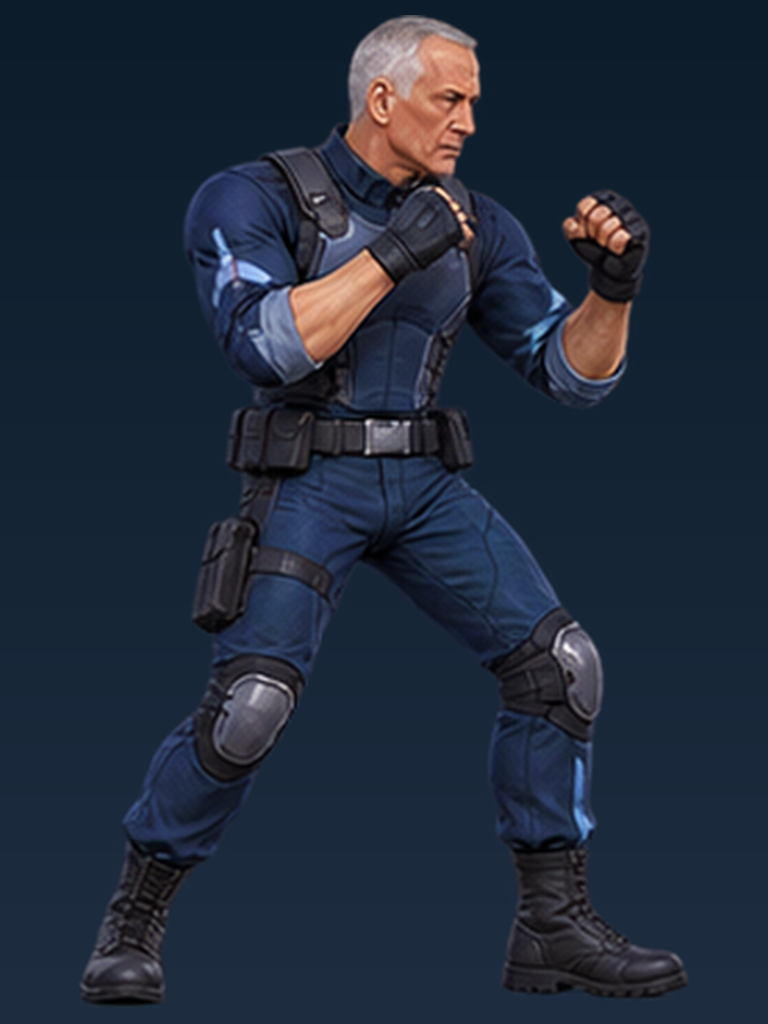
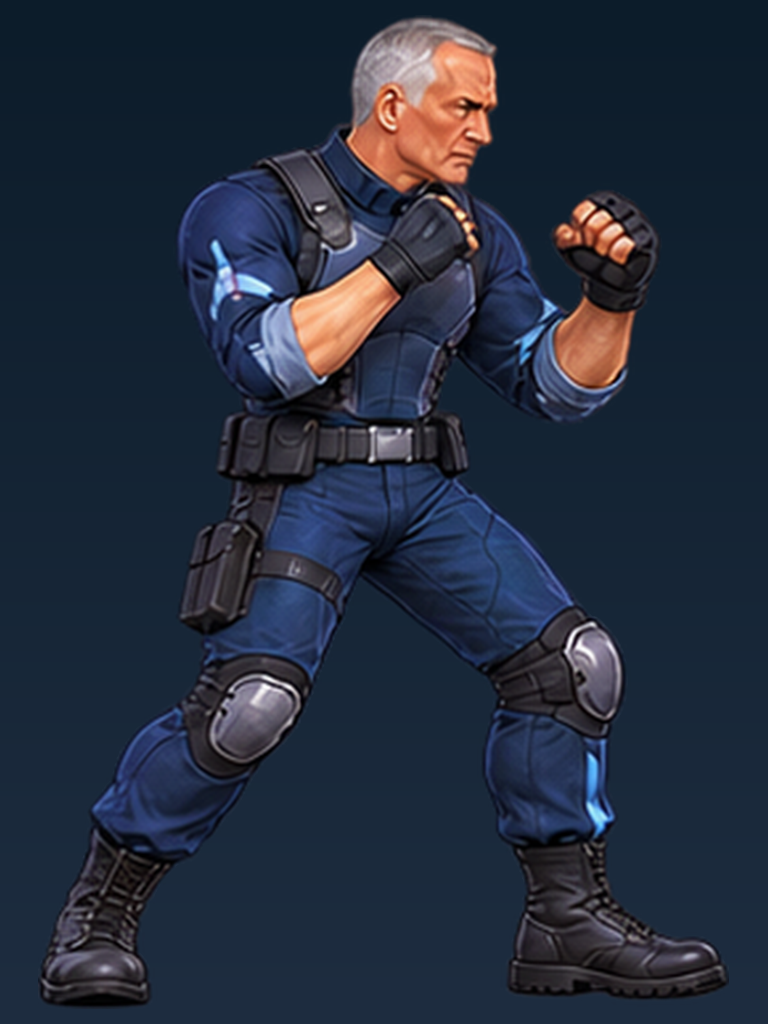
feat: produce gantz and joint list fighter art

diff --git a/tests/test_slice_sprite_sheets.py b/tests/test_slice_sprite_sheets.py
@@ -1,4 +1,5 @@
 import unittest
+import json
 from pathlib import Path
 
 from PIL import Image, ImageDraw
@@ -15,6 +16,29 @@ def make_cell(size: tuple[int, int], figure_box: tuple[int, int, int, int]) -> I
 
 
 class SpriteSheetGeometryTests(unittest.TestCase):
+    def test_first_production_trio_has_valid_source_contract(self) -> None:
+        root = Path(__file__).resolve().parents[1]
+        manifest_path = root / "data" / "fighter_art_manifest.json"
+        self.assertTrue(manifest_path.exists(), "production fighter art manifest is missing")
+        manifest = json.loads(manifest_path.read_text(encoding="utf-8"))
+        expected = {
+            "yair_lapid": ("prime_time_rushdown", 1, "production_revision_pending"),
+            "benny_gantz": ("centre_control_heavy", 2, "production"),
+            "joint_list": ("dual_stance_ensemble", 2, "production"),
+        }
+        for fighter_id, (archetype, version, status) in expected.items():
+            entry = manifest["fighters"].get(fighter_id, {})
+            self.assertEqual(entry.get("version"), version)
+            self.assertEqual(entry.get("status"), status)
+            self.assertEqual(entry.get("archetype"), archetype)
+            self.assertEqual(len(entry.get("pose_order", [])), 12)
+            sheet_path = root / entry["source_sheet"]
+            sheet = Image.open(sheet_path).convert("RGBA")
+            self.assertEqual(sheet.width * 3, sheet.height * 4, f"{fighter_id} sheet is not 4x3")
+            alpha = np.asarray(sheet.getchannel("A"))
+            self.assertGreater(int((alpha == 0).sum()), 0, f"{fighter_id} sheet has no transparency")
+            self.assertEqual(len(extract_pose_cells(sheet)), 12)
+
     def test_jab_and_cross_have_materially_different_silhouettes(self) -> None:
         """A second punch must read as a new pose, not a near-duplicate jab."""
         root = Path(__file__).resolve().parents[1] / "assets" / "characters" / "sprites"

diff --git a/docs/superpowers/plans/2026-10-14-first-production-fighter-trio.md b/docs/superpowers/plans/2026-10-14-first-production-fighter-trio.md
@@ -1,0 +1,105 @@
+# First Production Fighter Trio Implementation Plan
+
+> **For agentic workers:** REQUIRED SUB-SKILL: Use superpowers:subagent-driven-development (recommended) or superpowers:executing-plans to implement this plan task-by-task. Steps use checkbox (`- [ ]`) syntax for tracking.
+
+**Goal:** Replace the playable 12-pose source sheets for Yair Lapid, Benny Gantz and Joint List with production art that carries their approved fast, heavy and dual-stance identities without changing combat rules.
+
+**Architecture:** Generate one transparent 4×3 source sheet per fighter from the current card, current sheet and approved concept direction. Run the existing connected-component slicer to rebuild normalized frames and cards, then validate the asset contract and inspect Sprite Lab and live fights at desktop and landscape-phone sizes.
+
+**Tech Stack:** Built-in ImageGen, PNG/RGBA, Pillow/SciPy slicer, Godot 4.7.
+
+**Spec:** `docs/superpowers/specs/2026-10-14-character-visual-direction.md`
+
+## Global Constraints
+
+- Preserve the exact 12-pose order in `docs/character-pipeline.md` and a transparent 4×3 source sheet.
+- Every pose faces screen-right and keeps the full body, feet and accessories inside its cell.
+- Use the existing fighter identity and outfit; never paste a photographic face or substitute a generic body.
+- Do not change damage, hit windows, reach, combo ownership, fighter height or match rules.
+- Punch poses cannot contain the kick pose. Effects and motion trails remain runtime presentation rather than baked sheet elements.
+- Preserve `FighterVisual` grounding, world-floor shadows, 1280×720 layout and landscape-phone controls.
+
+## Review Focus
+
+- Extended gloves, boots and the Joint List dual silhouette must remain attached to the correct pose after slicing.
+- All 12 cells must contain exactly the intended fighter with no labels, floor, shadow or neighbouring-pose fragments.
+- Lapid's kick and Gantz's heavy poses must retain the same visible body scale as their punches.
+- Joint List must read as one dual-figure roster slot at gameplay size without exceeding the render budget.
+- Cards regenerated from idle frames must still fit selection and HUD crops.
+
+---
+
+### Task 1: Contract regression and production metadata
+
+**Files:**
+- Create: `data/fighter_art_manifest.json`
+- Modify: `tests/test_slice_sprite_sheets.py`
+
+**Interfaces:**
+- Produces: production status and approved archetype for `yair_lapid`, `benny_gantz` and `joint_list`.
+- Consumes: `extract_pose_cells()` and the 4×3 asset contract.
+
+- [x] Add a failing test that requires all three production IDs in the manifest and validates sheet RGBA mode, 4:3 dimensions, transparent pixels, twelve non-empty owned cells and the fixed pose order.
+- [x] Run the focused Python test and confirm it fails because the manifest does not exist.
+- [x] Add the manifest with the approved archetype and source-sheet path for each fighter; version/status tracks completed production honestly.
+- [x] Run the focused Python test.
+
+### Task 2: Lapid production sheet
+
+**Files:**
+- Modify: `assets/characters/sprite-sheets/new-roster/yair-lapid-sheet.png`
+- Regenerate: `assets/characters/sprites/yair_lapid-0.png` through `yair_lapid-11.png`
+- Regenerate: `assets/characters/yair-lapid-card.png`
+
+**Interfaces:**
+- Consumes: current Lapid card/sheet and FAST concept direction.
+- Produces: one complete transparent 4×3 sheet and twelve normalized frames.
+
+- [ ] Generate and inspect the sheet with narrow boxing silhouettes, fast straight punches and a distinct signature kick.
+- [ ] Run `python tools/slice_sprite_sheets.py` and the focused scale/silhouette tests.
+- [ ] Inspect all twelve normalized frames and commit the Lapid asset slice.
+
+### Task 3: Gantz production sheet
+
+**Files:**
+- Modify: `assets/characters/sprite-sheets/new-roster/benny-gantz-sheet.png`
+- Regenerate: `assets/characters/sprites/benny_gantz-0.png` through `benny_gantz-11.png`
+- Regenerate: `assets/characters/benny-gantz-card.png`
+
+**Interfaces:**
+- Consumes: current Gantz card/sheet and HEAVY concept direction.
+- Produces: one complete transparent 4×3 sheet and twelve normalized frames.
+
+- [x] Generate and inspect the sheet with a broad planted silhouette, compressed wind-up and large full-body recoil.
+- [x] Run the slicer and focused silhouette/grounding tests.
+- [x] Inspect all twelve normalized frames and the in-game desktop/phone result.
+
+### Task 4: Joint List production sheet
+
+**Files:**
+- Modify: `assets/characters/sprite-sheets/new-roster/joint-list-sheet.png`
+- Regenerate: `assets/characters/sprites/joint_list-0.png` through `joint_list-11.png`
+- Regenerate: `assets/characters/joint-list-card.png`
+
+**Interfaces:**
+- Consumes: current Joint List card/sheet and DUAL-STANCE ENSEMBLE concept direction.
+- Produces: one complete transparent 4×3 sheet and twelve normalized frames.
+
+- [x] Generate and inspect the sheet with a coherent two-figure silhouette, brown close-range lead and teal long-range lead alternating by pose.
+- [x] Run the slicer, connected-component and render-budget tests.
+- [x] Inspect all twelve normalized frames and the in-game desktop/phone result.
+
+### Task 5: Runtime, responsive and full-suite verification
+
+**Files:**
+- Modify: `docs/SHARED_GAME_ROADMAP.md`
+- Modify: `docs/superpowers/plans/2026-10-09-presentation-campaign-legal-analytics.md`
+
+**Interfaces:**
+- Consumes: all three production asset slices.
+- Produces: verified milestone and shared handoff state.
+
+- [ ] Run the focused geometry, attack identity, render-budget, combo and fairness tests.
+- [ ] Run all Godot tests and `python -m unittest discover -s tests -p 'test_*.py'`.
+- [ ] Inspect Sprite Lab and live-fight captures at 1280×720 and 844×390, including both facing directions and touch controls.
+- [ ] Record the evidence in the shared roadmap and handoff, then commit and push the completed milestone when authorized.

diff --git a/docs/SHARED_GAME_ROADMAP.md b/docs/SHARED_GAME_ROADMAP.md
@@ -30,7 +30,7 @@ The current one-on-one, best-of-three rules remain. The roadmap does not current
 | Combat data foundation | Complete | `docs/superpowers/plans/2026-10-14-combat-data-foundation.md` | `data/combat.json`, combat loader/tests |
 | Distinct attack presentation | First slice complete | `docs/superpowers/plans/2026-10-14-distinct-attacks-and-interactive-stages.md` | animation profiles, `SpriteMotion`, visual tests |
 | Reactive stages | First slice complete | `docs/superpowers/plans/2026-10-14-reactive-stages.md` | `scripts/stages/`, stage tests, narrow event wiring |
-| Character visual redesign | Full 13-fighter concept bible complete; production sprites pending approval | `docs/superpowers/specs/2026-10-14-character-visual-direction.md` | character images, sprite sheets, derived sprite frames, visual QA |
+| Character visual redesign | Production in progress: Gantz and Joint List complete; Lapid exact-scale revision pending | `docs/superpowers/plans/2026-10-14-first-production-fighter-trio.md` | character images, sprite sheets, derived sprite frames, visual QA |
 | Compact fighter kits and combos | Next | Create a dated spec and plan before tuning | combo/kit data, loaders and focused tests |
 | Stage-specific motion and props | Planned | Extend the reactive-stage spec after review | parallax, crowds and cosmetic props behind the fight plane |
 | Campaign persistence | Planned | `docs/superpowers/specs/2026-10-14-game-upgrade-design.md` | save schema, campaign flow and tests |
